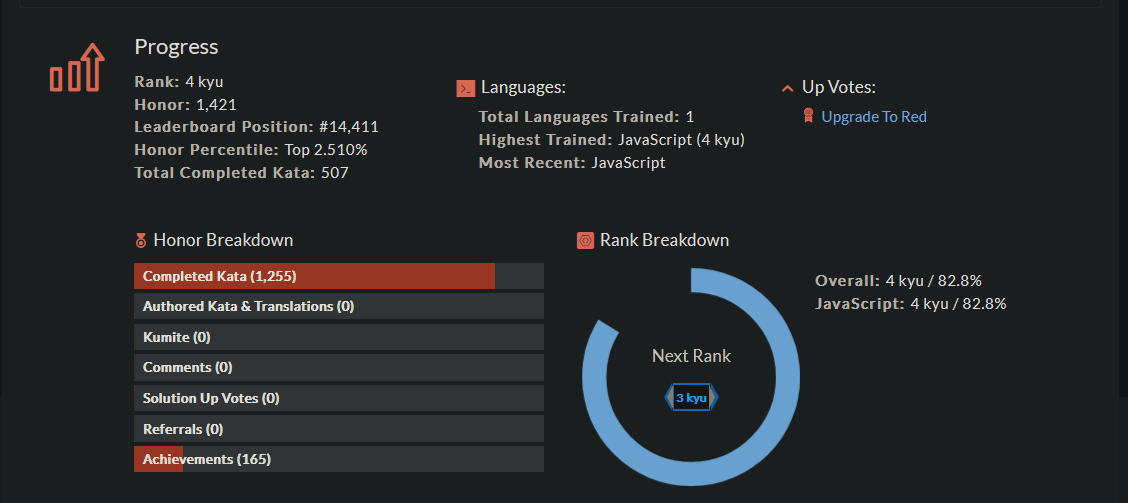
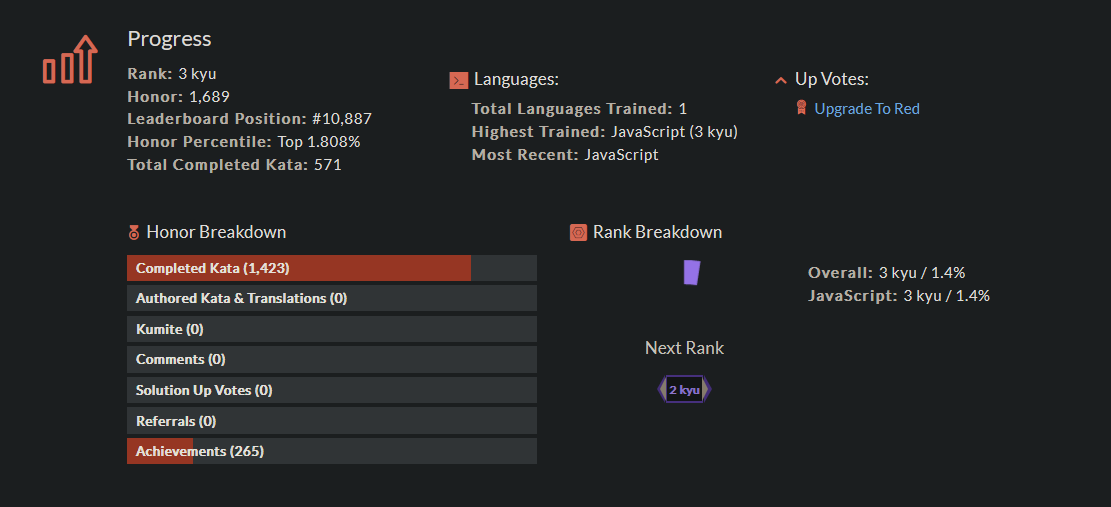
updated stats and readme file

diff --git a/README.md b/README.md
@@ -6,4 +6,4 @@ Solutions to Javascript coding challenges of varying levels to improve my proble
 
 You can check out my profile <a href="https://www.codewars.com/users/JaredCaprio">here</a>.
 
-For Javascript, I am currently ranked 4 KYU and I am placed within the top 2.5% percentile at my level.
+For Javascript, I am currently ranked 3 KYU and I am placed within the top 1.8% percentile at my level.
